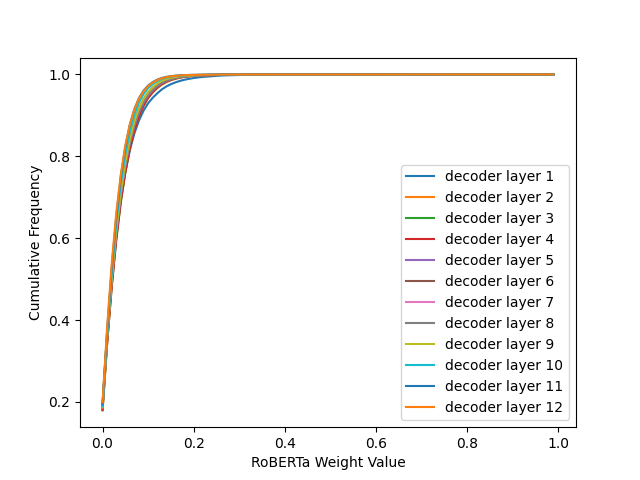
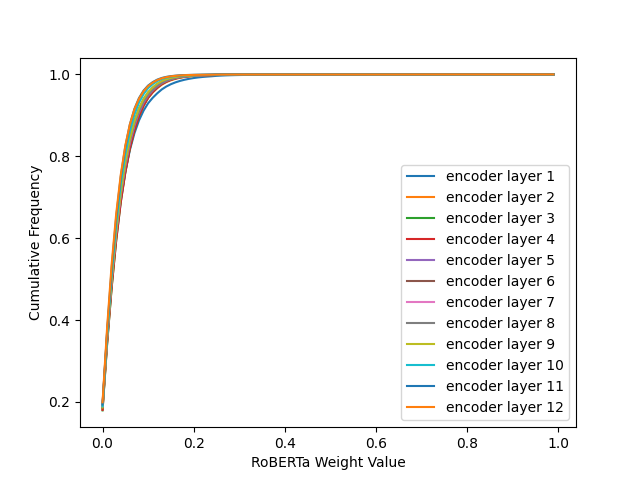
rough report

Changed region(s): [[0.6875, 0.3438, 0.875, 0.875]]

diff --git a/report.md b/report.md
@@ -15,13 +15,23 @@ MRPC -- or "Microsoft Research Paraphrase Corpus" is a paraphrasing task where t
 
 ![gpt2_layer](./src/images/layer_weights_gpt2.png)
 
+In the case of gpt2, we see that on the whole, the weights are evenly distributed mostly contained in the interval (-0.5,0.5), with most weights centered aroud 0 which is relatively expected. When looking at the layer by layer distributions, we see that while most layers follow similar behaviors, there are a few that in general have more weights of higher magnitude than others, in particular the layers that pop out the right side of the distribution such as layer 10. 
+
 ![bart_total](./src/images/bart_weights.png)
 
 ![bart_layer](./src/images/bart_layer.png)
 
+The BART distribution looks similar but is even more tightly packed around 0, this time with most weights contained in the interval (-0.25,0.25), and again bunched around 0 as expected. 
+
+And again there do not seem to be large difference in the magnitudes of weights in a given layer, regardless of whether they are encoder or decoder layers. We do see that decoder layer one is most to the right of all the layers, suggesting it has a higher concentration of larger magnitude weights, but the difference looks to be relatively small from the other layers. 
+
 ![roberta_total](./src/images/roberta_weights.png)
 
 ![roberta_layer](./src/images/roberta_layer.png)
+
+The roberta overall distribution is interesting, because we see small spikes in weights at around the -0.25 and .25 values, but outside of this it looks mostly like the BART distribution, just a bit more spread. 
+
+When looking at the layer by layer distribution there does look to be an outlier layer in (what I assume) is layer 1, but again for the most part everything seems tightly packed together. 
 
 ## Task Results 
 
@@ -46,4 +56,8 @@ As seen in these three graphs, in the case of most of the 0.1 sparsities, there 
 
 Once again we see very little differences in the train times for the models, again likely due to the same reasons as discussed above in the sst2 example. 
 
-## Challenges of Sparsification 
+## Challenges of Sparsification in LLMS 
+
+One immediate challenge that I saw was that in the pytorch implementation of the global unstructured prune, rather than getting rid of the weights in a way that they would be skipped during computation, in the current implementation the weights are just zeroed out, and the computation time benefit that we would hope to get out of sparsification is near non-existent, which is not ideal for at least parts of the problems that sparsification wants to solve. 
+
+One other thing that I wonder about with sparsification in LLMS is the way that sparsifying different parts of the transformer architecture changes the performance of the model. On initial research, it seems magnitude based methods might not always be the way to go in LLMs, and that structured pruning to induce sparse patterns, like pruning out consecutive parameters, might increase model performance, but figuring out the optimal way to prune a given LLM may not be immediately clear, and the novelty of the architecture may play an especially large role in the methods used for pruning. 
